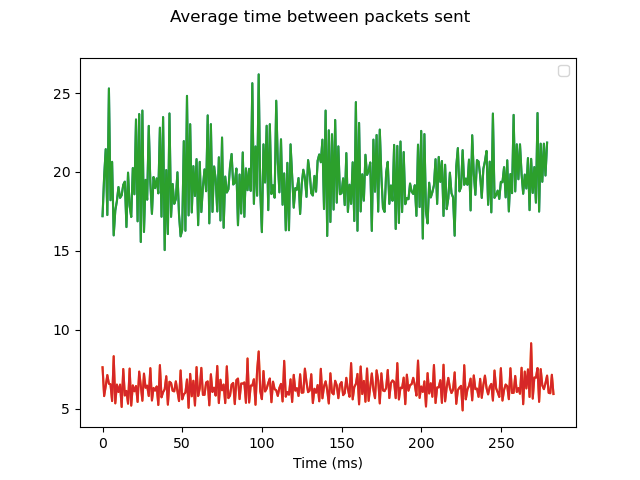
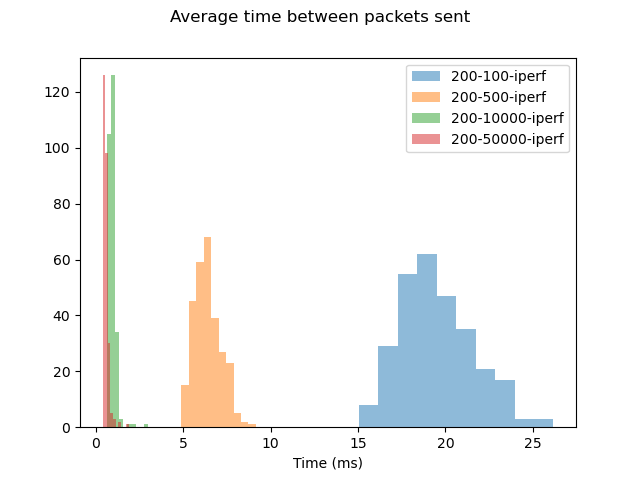
fixed hist plot

diff --git a/src/eda.py b/src/eda.py
@@ -86,7 +86,9 @@ def plot_histogram(data_filename, outdir, filename="histogram.png", function=Non
         for i in range(len(data_list)):
             data = data_list[i]["packet_times"]
             avg_time_delta = data.str.split(';').apply(mean_delta)
-            plt.plot(avg_time_delta)
+            plt.hist(avg_time_delta, alpha=0.5)
+            # avg_time_delta.plot.hist(alpha=0.5)
+
     # graphs data as is
     else:
         for i in range(len(data_list)):
@@ -100,7 +102,7 @@ def plot_histogram(data_filename, outdir, filename="histogram.png", function=Non
         plt.suptitle("Average time between packets sent")
         plt.xlabel("Time (ms)")
 
-    plt.legend()
+    plt.legend([pth.split('_')[1].split('.')[0] for pth in data_filename])
 
     plt.savefig(os.path.join(outdir, filename))
 

diff --git a/run.py b/run.py
@@ -46,7 +46,7 @@ def main(targets):
         csv1 = [join(temp_path, "s2_200-100-iperf.csv"), join(temp_path, "s2_200-500-iperf.csv")]
         csv2 = [join(temp_path, "s2_200-10000-iperf.csv"), join(temp_path, "s2_200-50000-iperf.csv")]
         
-        plot_histogram(csv1+csv1, out_path, filename="100-500-10000-50000_hist.png", function="time delta")
+        plot_histogram(csv1+csv2, out_path, filename="100-500-10000-50000_hist.png", function="time delta")
         
         plot_timeseries(csv1, out_path, filename="100-500_amp.png", function="amplitude")
         plot_timeseries(csv2, out_path, filename="10000-50000_amp.png", function="amplitude")
